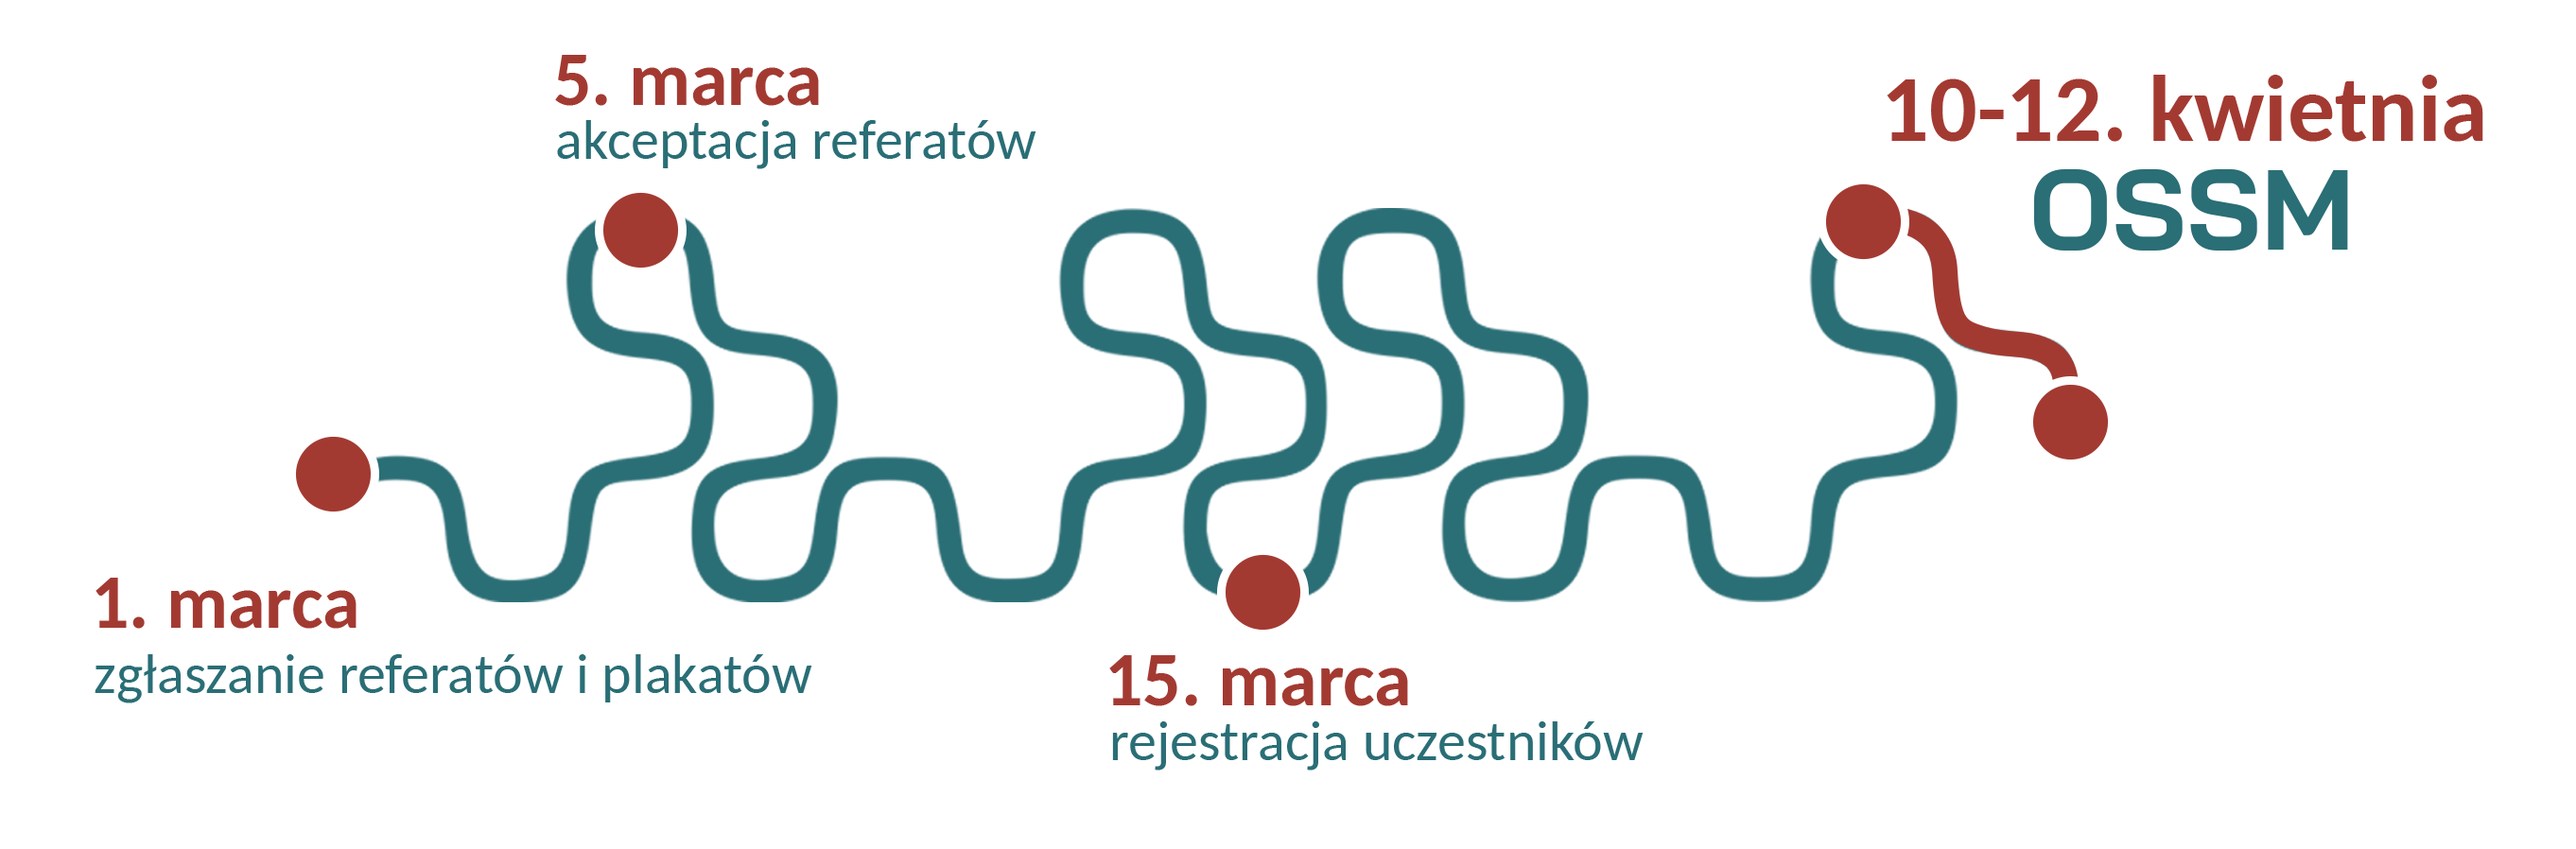
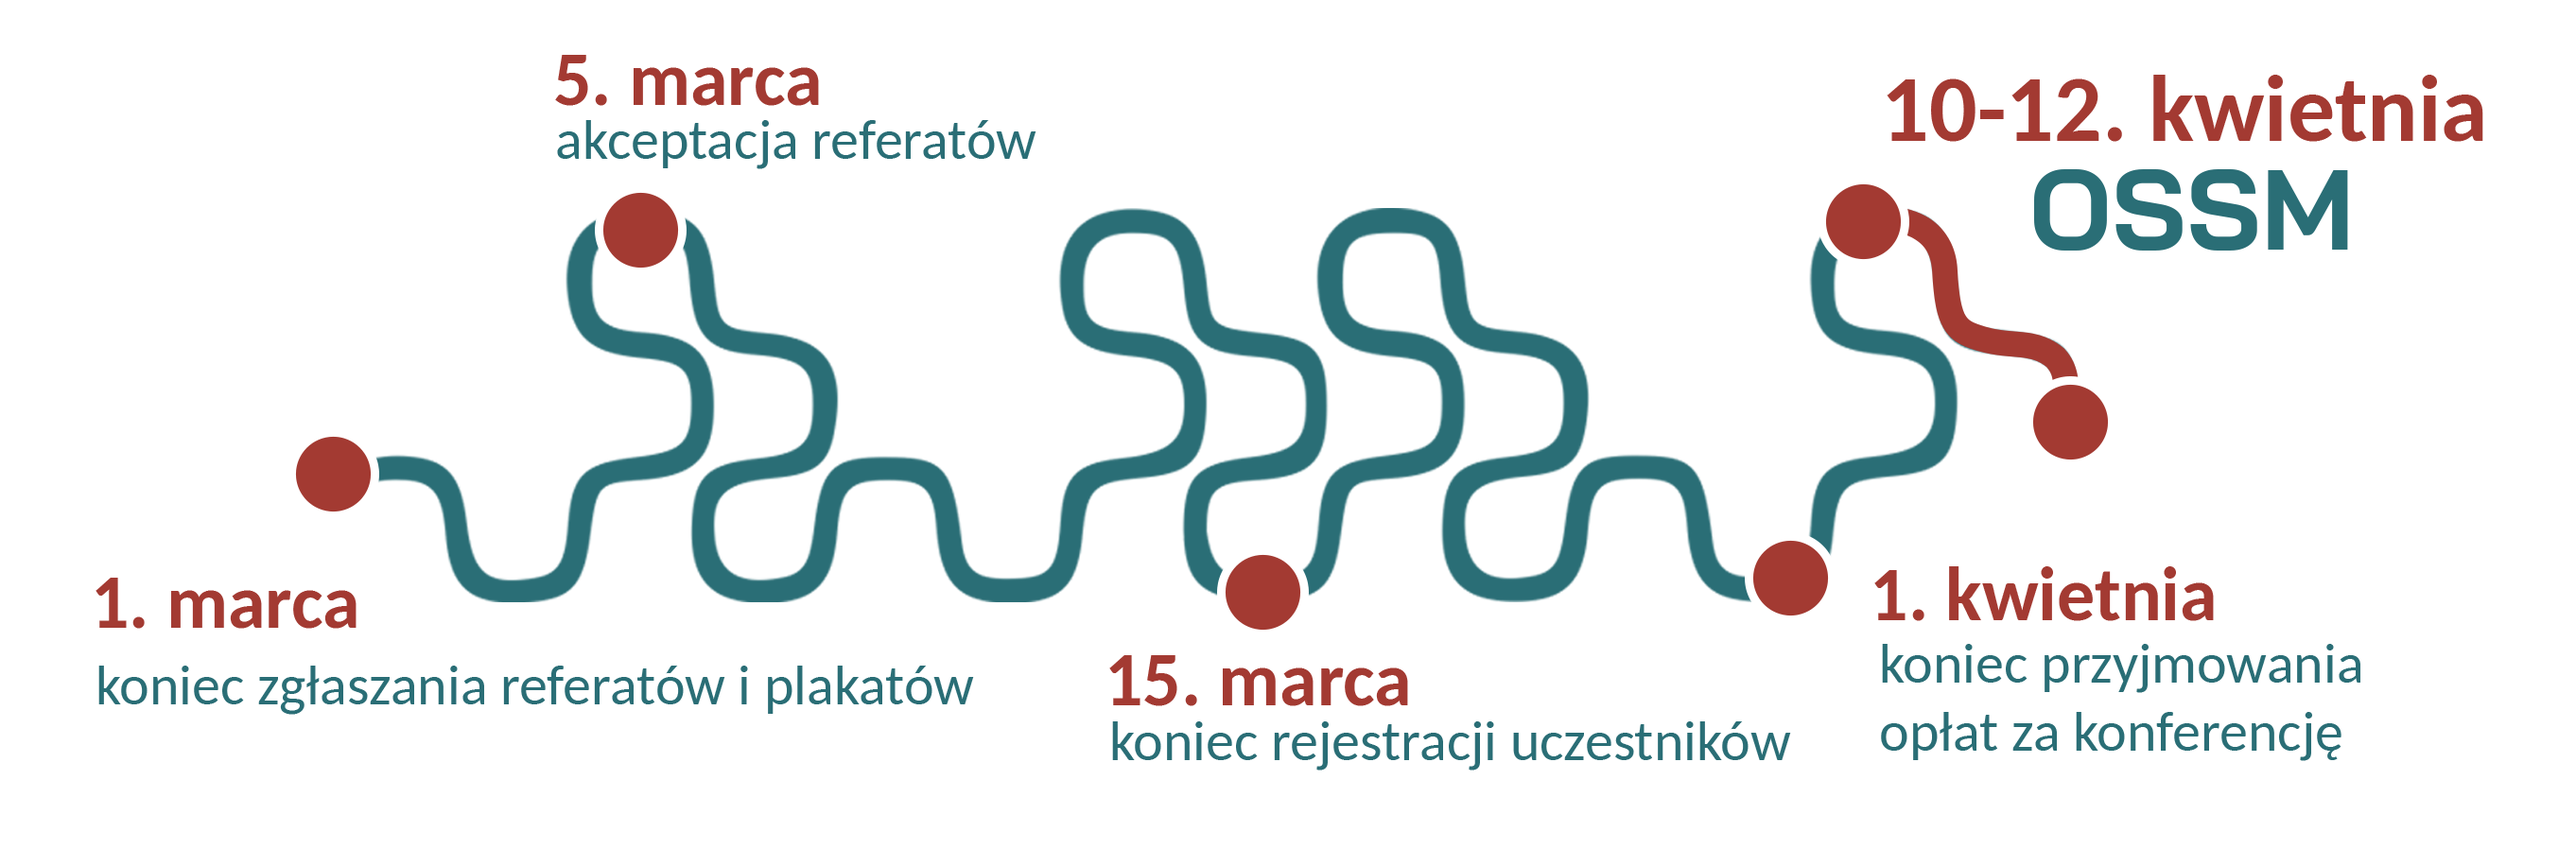
ossm updates (#11)
lower footer height
clarify wording on schedule graphic
fix active tab display

diff --git a/templates/base.html b/templates/base.html
@@ -45,7 +45,7 @@
 									{% endif %}
 										{% block index_link %}{% endblock %}</li>
                                     {% if show_main_nav %}
-                                        {% if not is_index and not is_contact %}
+                                        {% if not is_index and not is_contact and not is_registration %}
 									    <li class="current">
 									    {% else %}
 									    <li>

diff --git a/frontend/src/css/custom-bootstrap.scss b/frontend/src/css/custom-bootstrap.scss
@@ -814,6 +814,14 @@ body {
 		padding: 6em 0 8em 0;
 	}
 
+	#footer-wrapper.header-footer-colors-OSSM {
+		padding: 1em 0 1em 0;
+	}
+
+	#footer-wrapper.header-footer-colors-OSSM #copyright {
+		padding: 0.4em 0 0 0;
+	}
+
 
 
 
